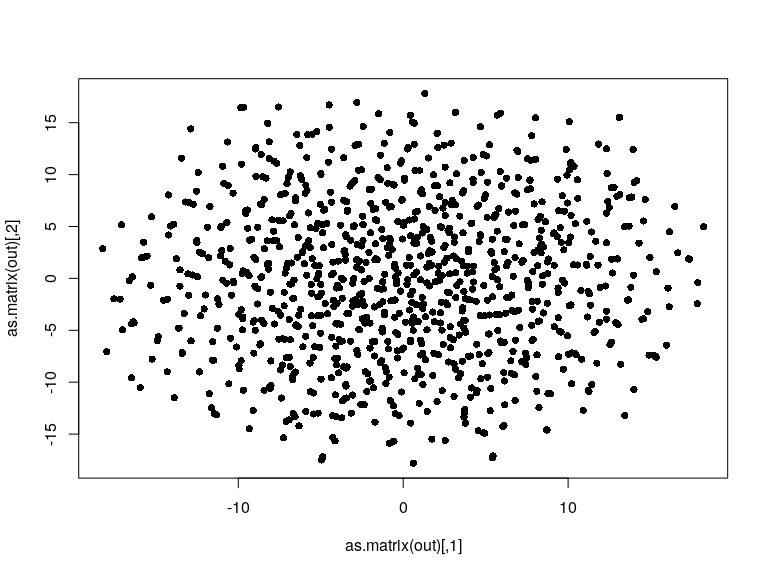
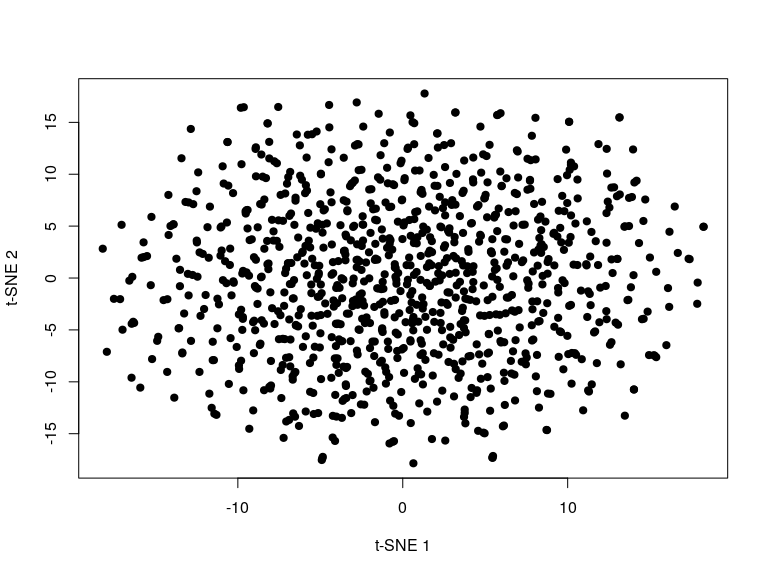
Improve docs, as_matrix option

diff --git a/README.md b/README.md
@@ -8,16 +8,23 @@ R binding for
 Example usage
 -------------
 
-    devtools::load_all()
-    #> Loading snifter
+Basic usage of the function returns a matrix of t-SNE coordinates.
+
+    library("snifter")
     set.seed(42)
     m <- matrix(rnorm(20000), ncol=20) 
-    out <- fi_tsne(m[-(1:2), ], random_state = 42L)
-    embed(out, m[1:2, ])
-    #>            [,1]      [,2]
-    #> [1,]  3.3273666 -4.083796
-    #> [2,] -0.7138549  3.726564
-
-    plot(as.matrix(out), pch = 16)
+    snifter <- fi_tsne(m[-(1:2), ], random_state = 42L)
+    plot(snifter, pch = 19, xlab = "t-SNE 1", ylab = "t-SNE 2")
 
 <img src="man/figures/README-unnamed-chunk-2-1.png" width="100%" />
+
+By setting `as_matrix = FALSE`, the function will return an R binding to
+the underlying python object. This allows the user to embed new points
+into an existing embedding.
+
+    snifter <- fi_tsne(m[-(1:2), ], as_matrix = FALSE, random_state = 42L)
+    plot(as.matrix(snifter), pch = 19, col = "black",
+        xlab = "t-SNE 1", ylab = "t-SNE 2")
+    points(embed(snifter, m[1:2, ]), pch = 19, col = "red")
+
+<img src="man/figures/README-unnamed-chunk-3-1.png" width="100%" />
